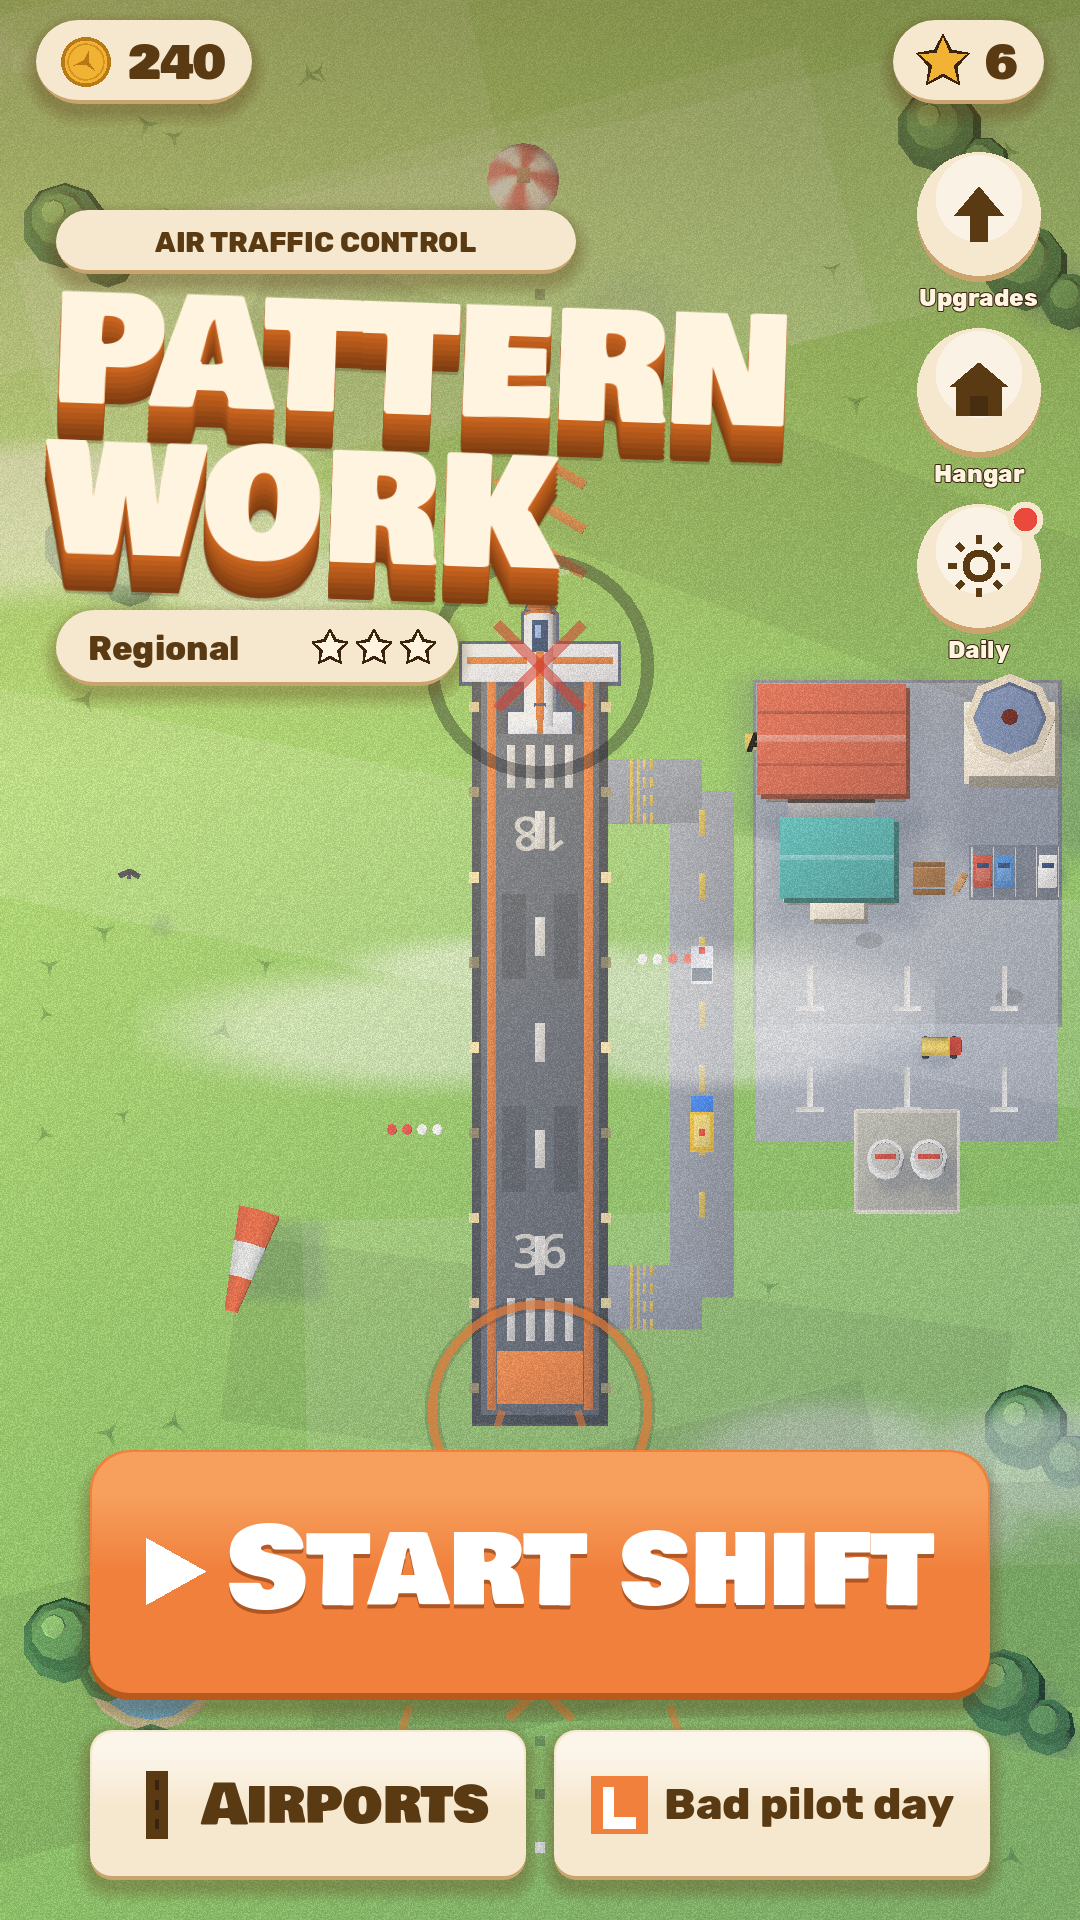
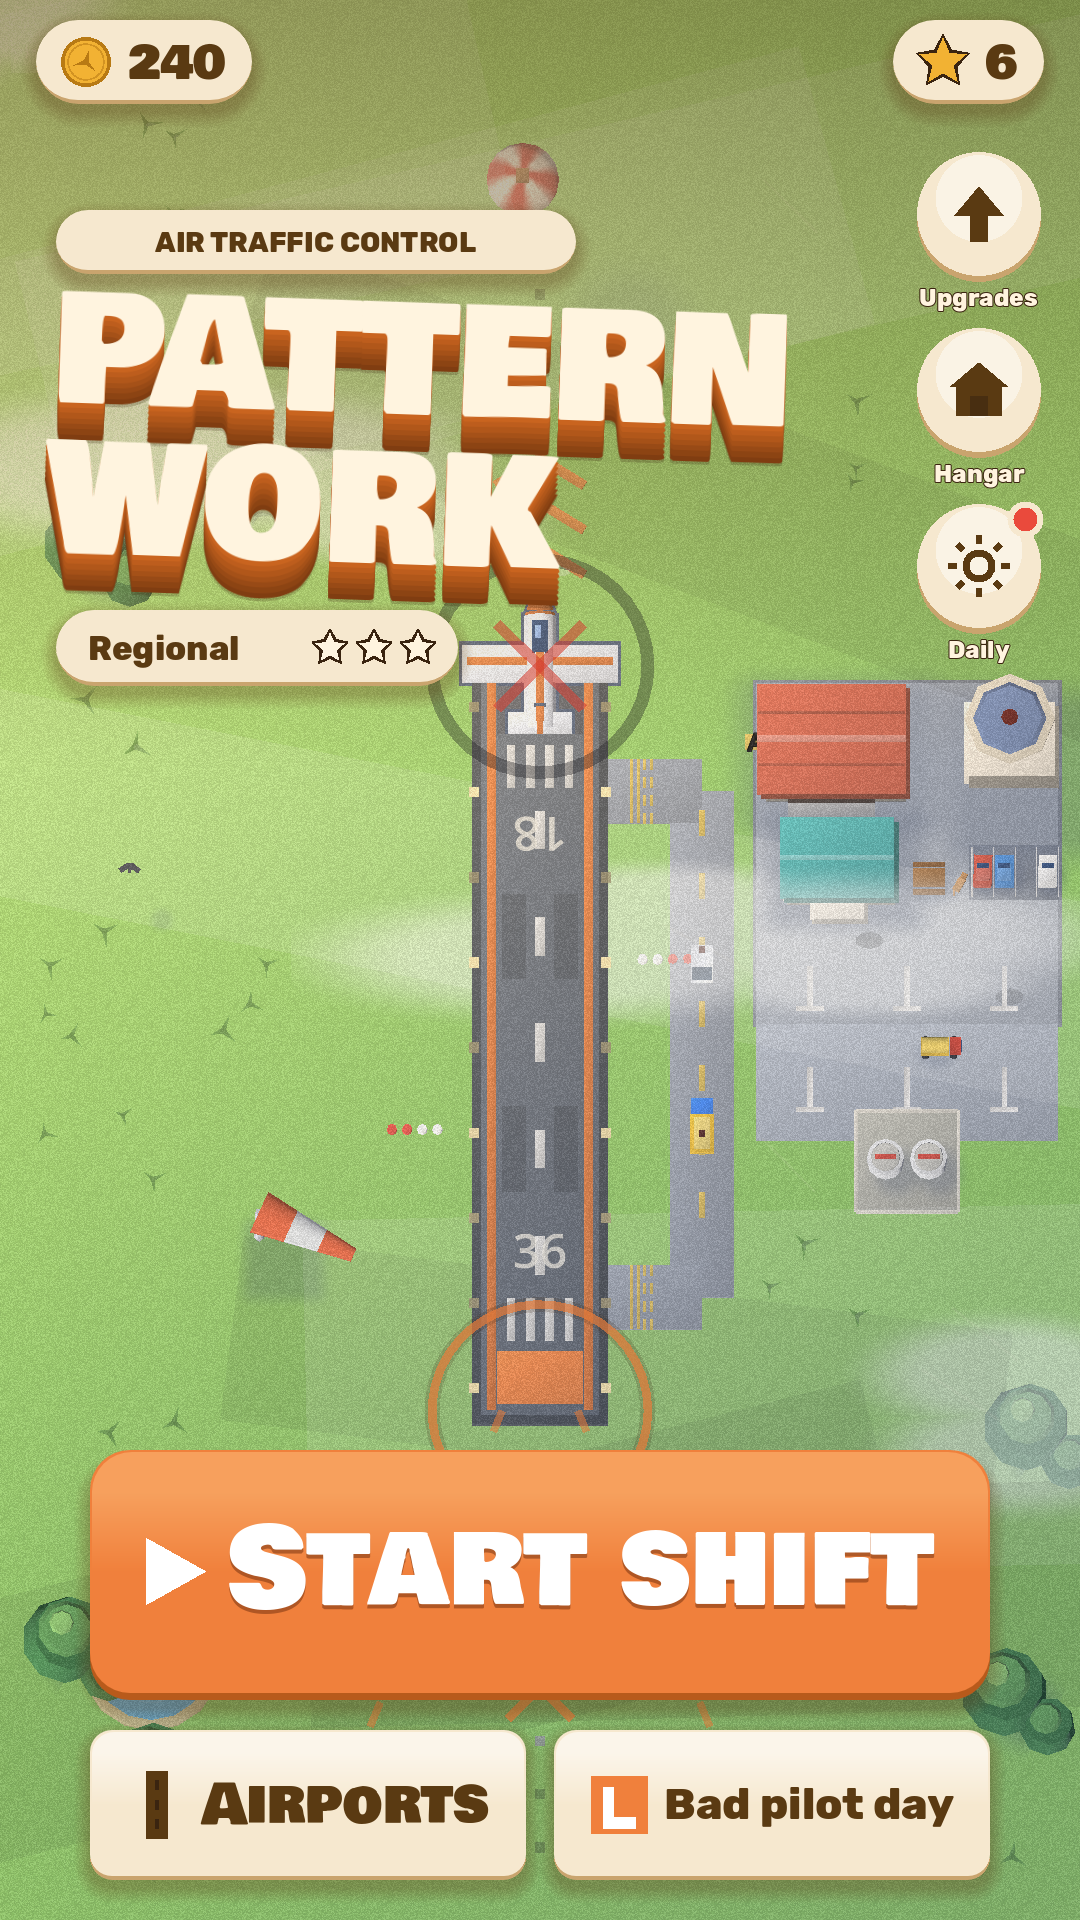
The interface's footprint is a no-go zone in Airfield.in_strip: funnels stop short of it, no spawn under it, International's lane and apron redrawn; per-airport mid-shift screenshots recaptured
Claude-Session: https://claude.ai/code/session_01DJHJRDq8cVzMo8ZeN4Bjbi

diff --git a/docs/style.md b/docs/style.md
@@ -99,12 +99,18 @@ beacons and the lights, which `?windtest` also does).
 **Placement rule (checked at every airport).** Nothing built, planted or parked may stand in something the player's eye follows:
 `Airfield.in_strip(p, r)` is true inside a runway and its lights (half width + 0.55), inside the approach funnel drawn behind each end
 (it widens from half width + 0.65 at the threshold to + 2.05 at 3.4 behind it, 3.6 long), inside a water lane's or a helipad's
-approach (1.0 / 0.9 beyond it), always with the object's own radius `r` added. Landmarks, props, trees, tufts, pines, the pond, the
-chairlift, parked planes, overflow spots and upgrade props are all placed with it, and so are the aprons and windsocks of the data in
-`Airports.gd`: the County, Mountain Field and Island aprons were moved for it, and the International's layout was redrawn (the three
-runways shifted left, the helipads and the seaplane lane moved to the right-hand column's ends) so its full-size apron, with a terminal and
-six tie-downs, sits beside the third runway outside every strip. The smoke test walks every placed thing at every airport
-(`airport=<name|index>` limits it) and the screenshot tool takes the same argument.
+approach (1.0 / 0.9 beyond it), and **under the interface**: `Airfield.in_hud` is the footprint of the pause button, the timer / coins
+pill with its star bar, the wind card and the wind-shift banner (just under the star bar, the widest it gets), each with a 12 px margin,
+taken from the 1080 x 1920 layout at the closest view (a radar upgrade only shrinks it). Always with the object's own radius `r` added.
+Landmarks, props, trees, tufts, pines, the pond, the chairlift, parked planes, overflow spots and upgrade props are placed with it (an
+upgrade prop may stand under the interface only where the field has no other room), and so are the aprons and windsocks in `Airports.gd`.
+Lane ends, threshold rings and helipads must not be under the interface at any airport, **an approach funnel is drawn only as far as it
+stays clear of it** (`Airfield.funnel_length`, 1.4 to 3.4 behind its threshold, so a tall layout shows fewer chevrons at its north ends),
+and **no arrival spawns under it** (`Traffic.spawn` skips an entry point under the pause button, the pill or the wind card). The
+County, Mountain Field and Island aprons were moved for the strips; the International's layout was redrawn (the three runways stay,
+the helipads, a shorter seaplane lane and its full-size apron with terminal and six tie-downs sit in the right-hand column between the
+banner and the horizontal lane). The smoke test walks every placed thing at every airport (`airport=<name|index>` limits it), checks the
+funnels, rings, lane ends and 250 spawns per airport against the interface, and the screenshot tool takes the same argument.
 
 ### Aircraft on the ground: taxi, hangar and ramp
 
